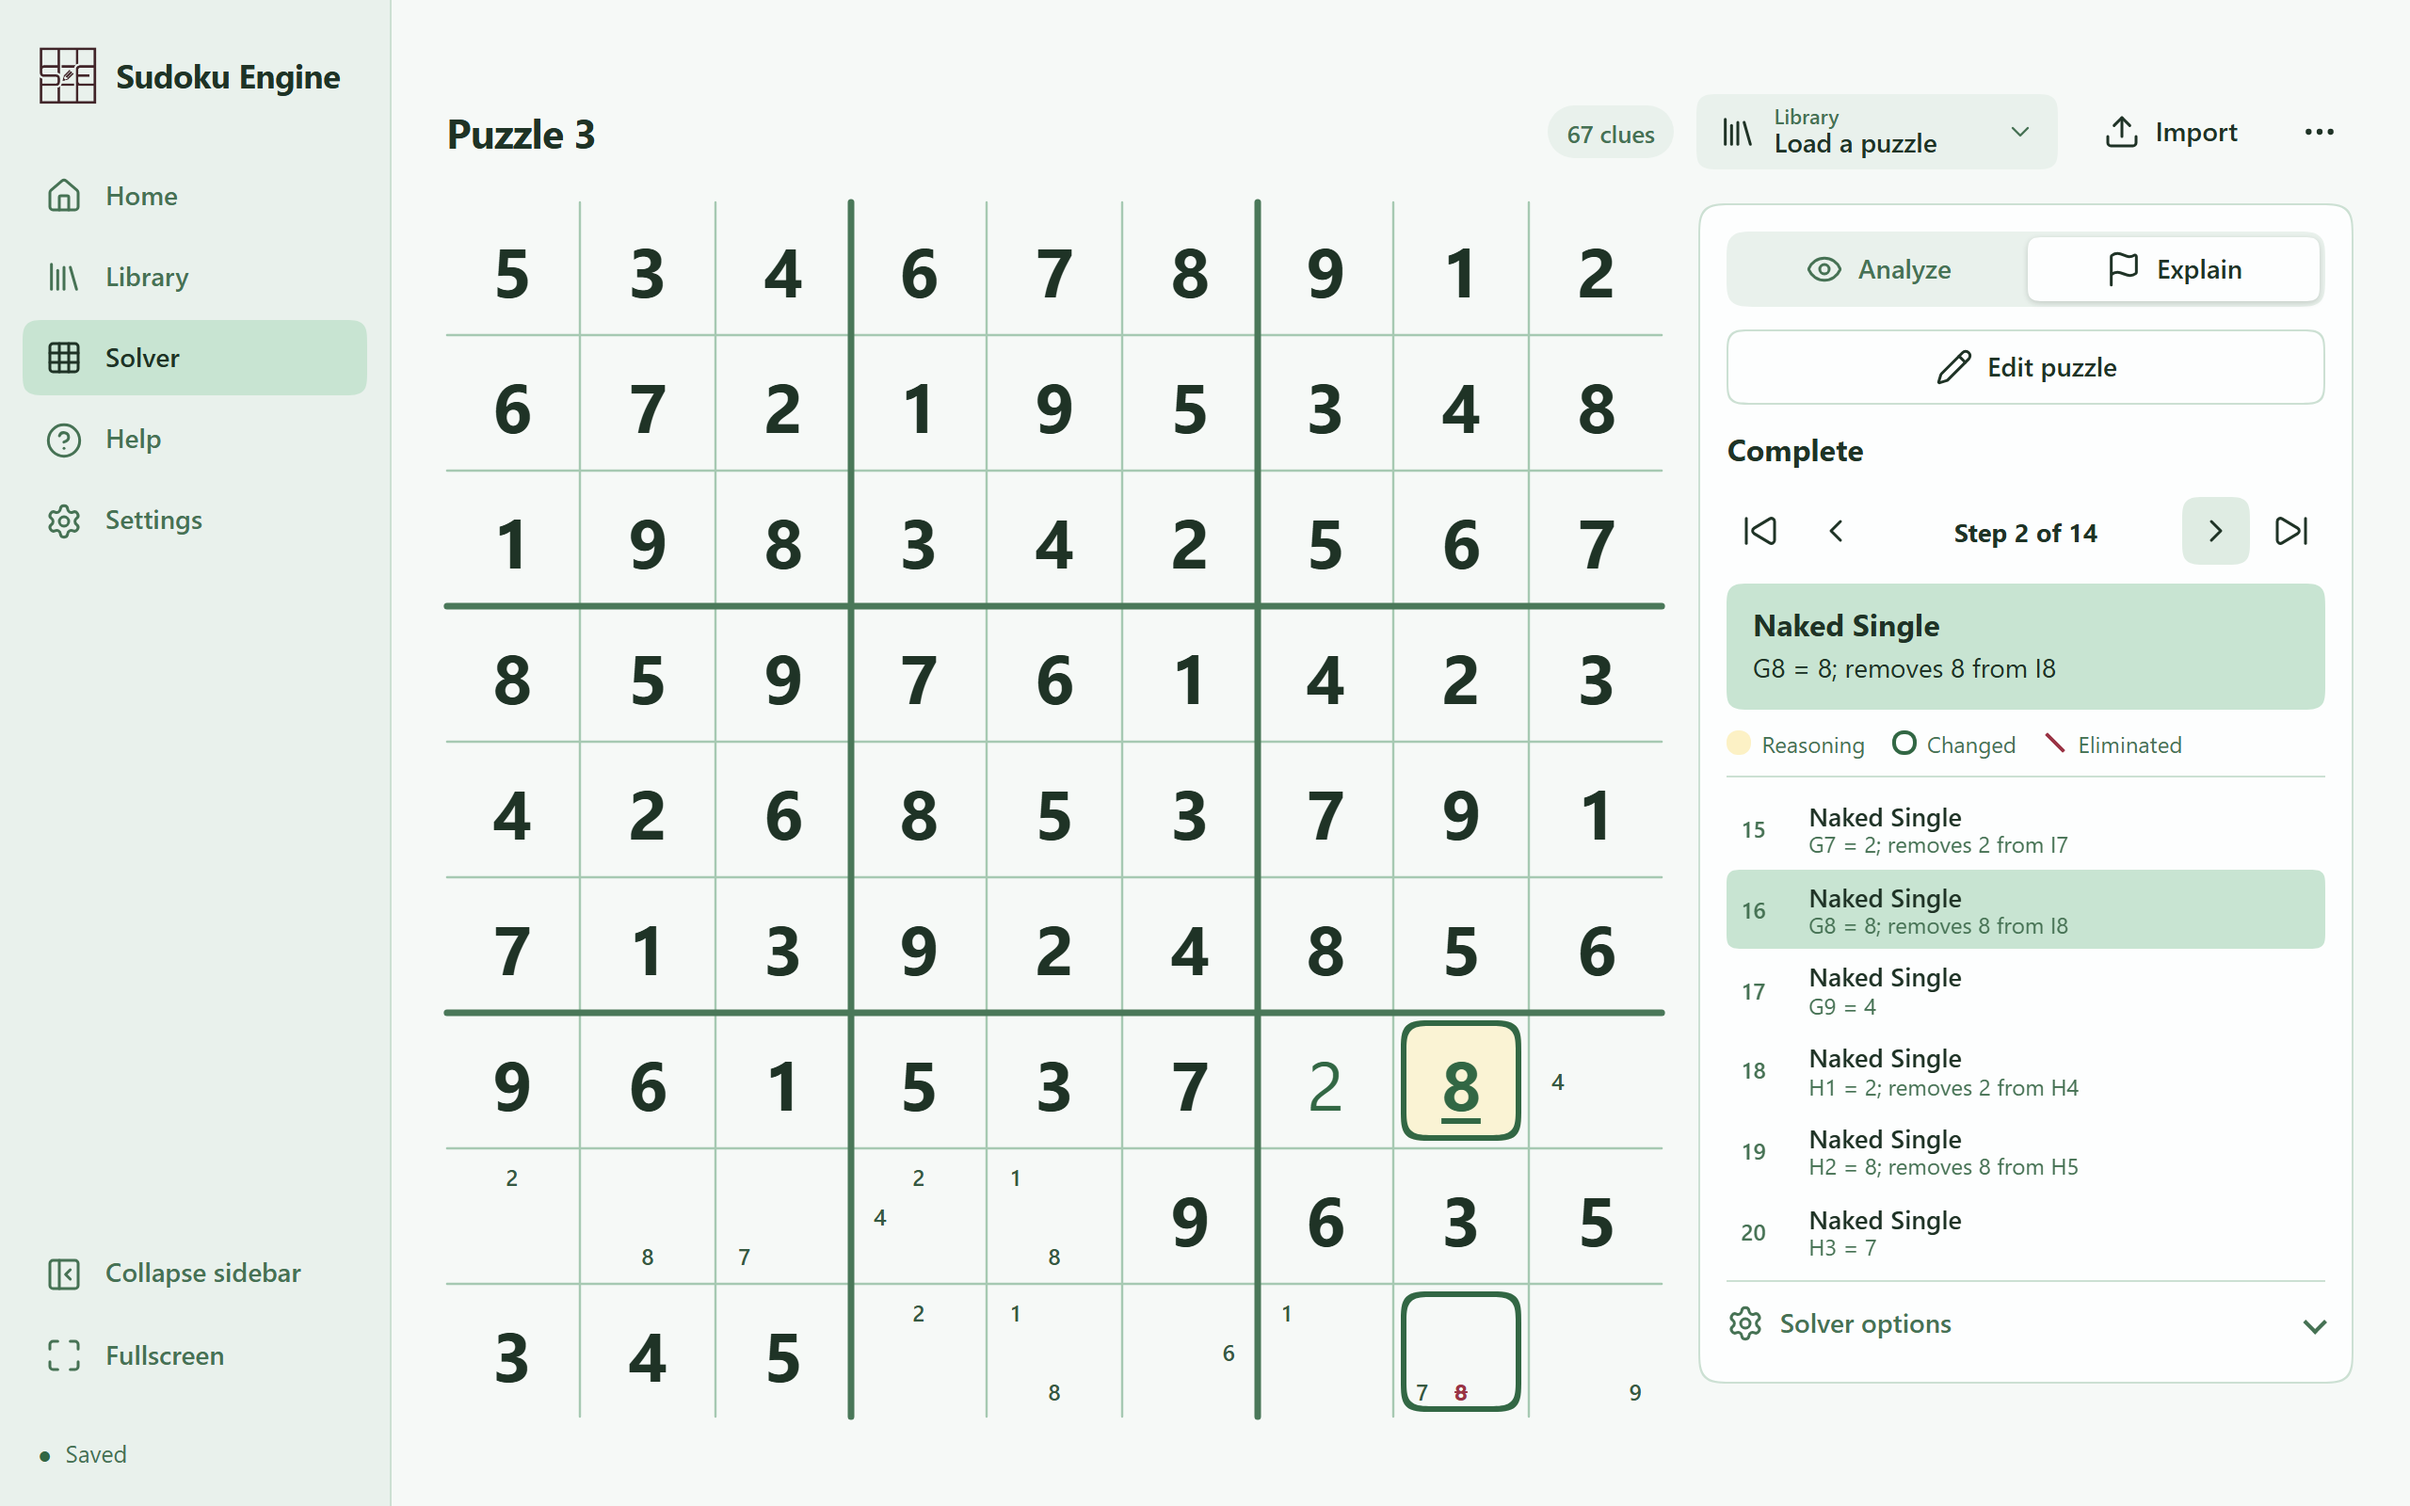
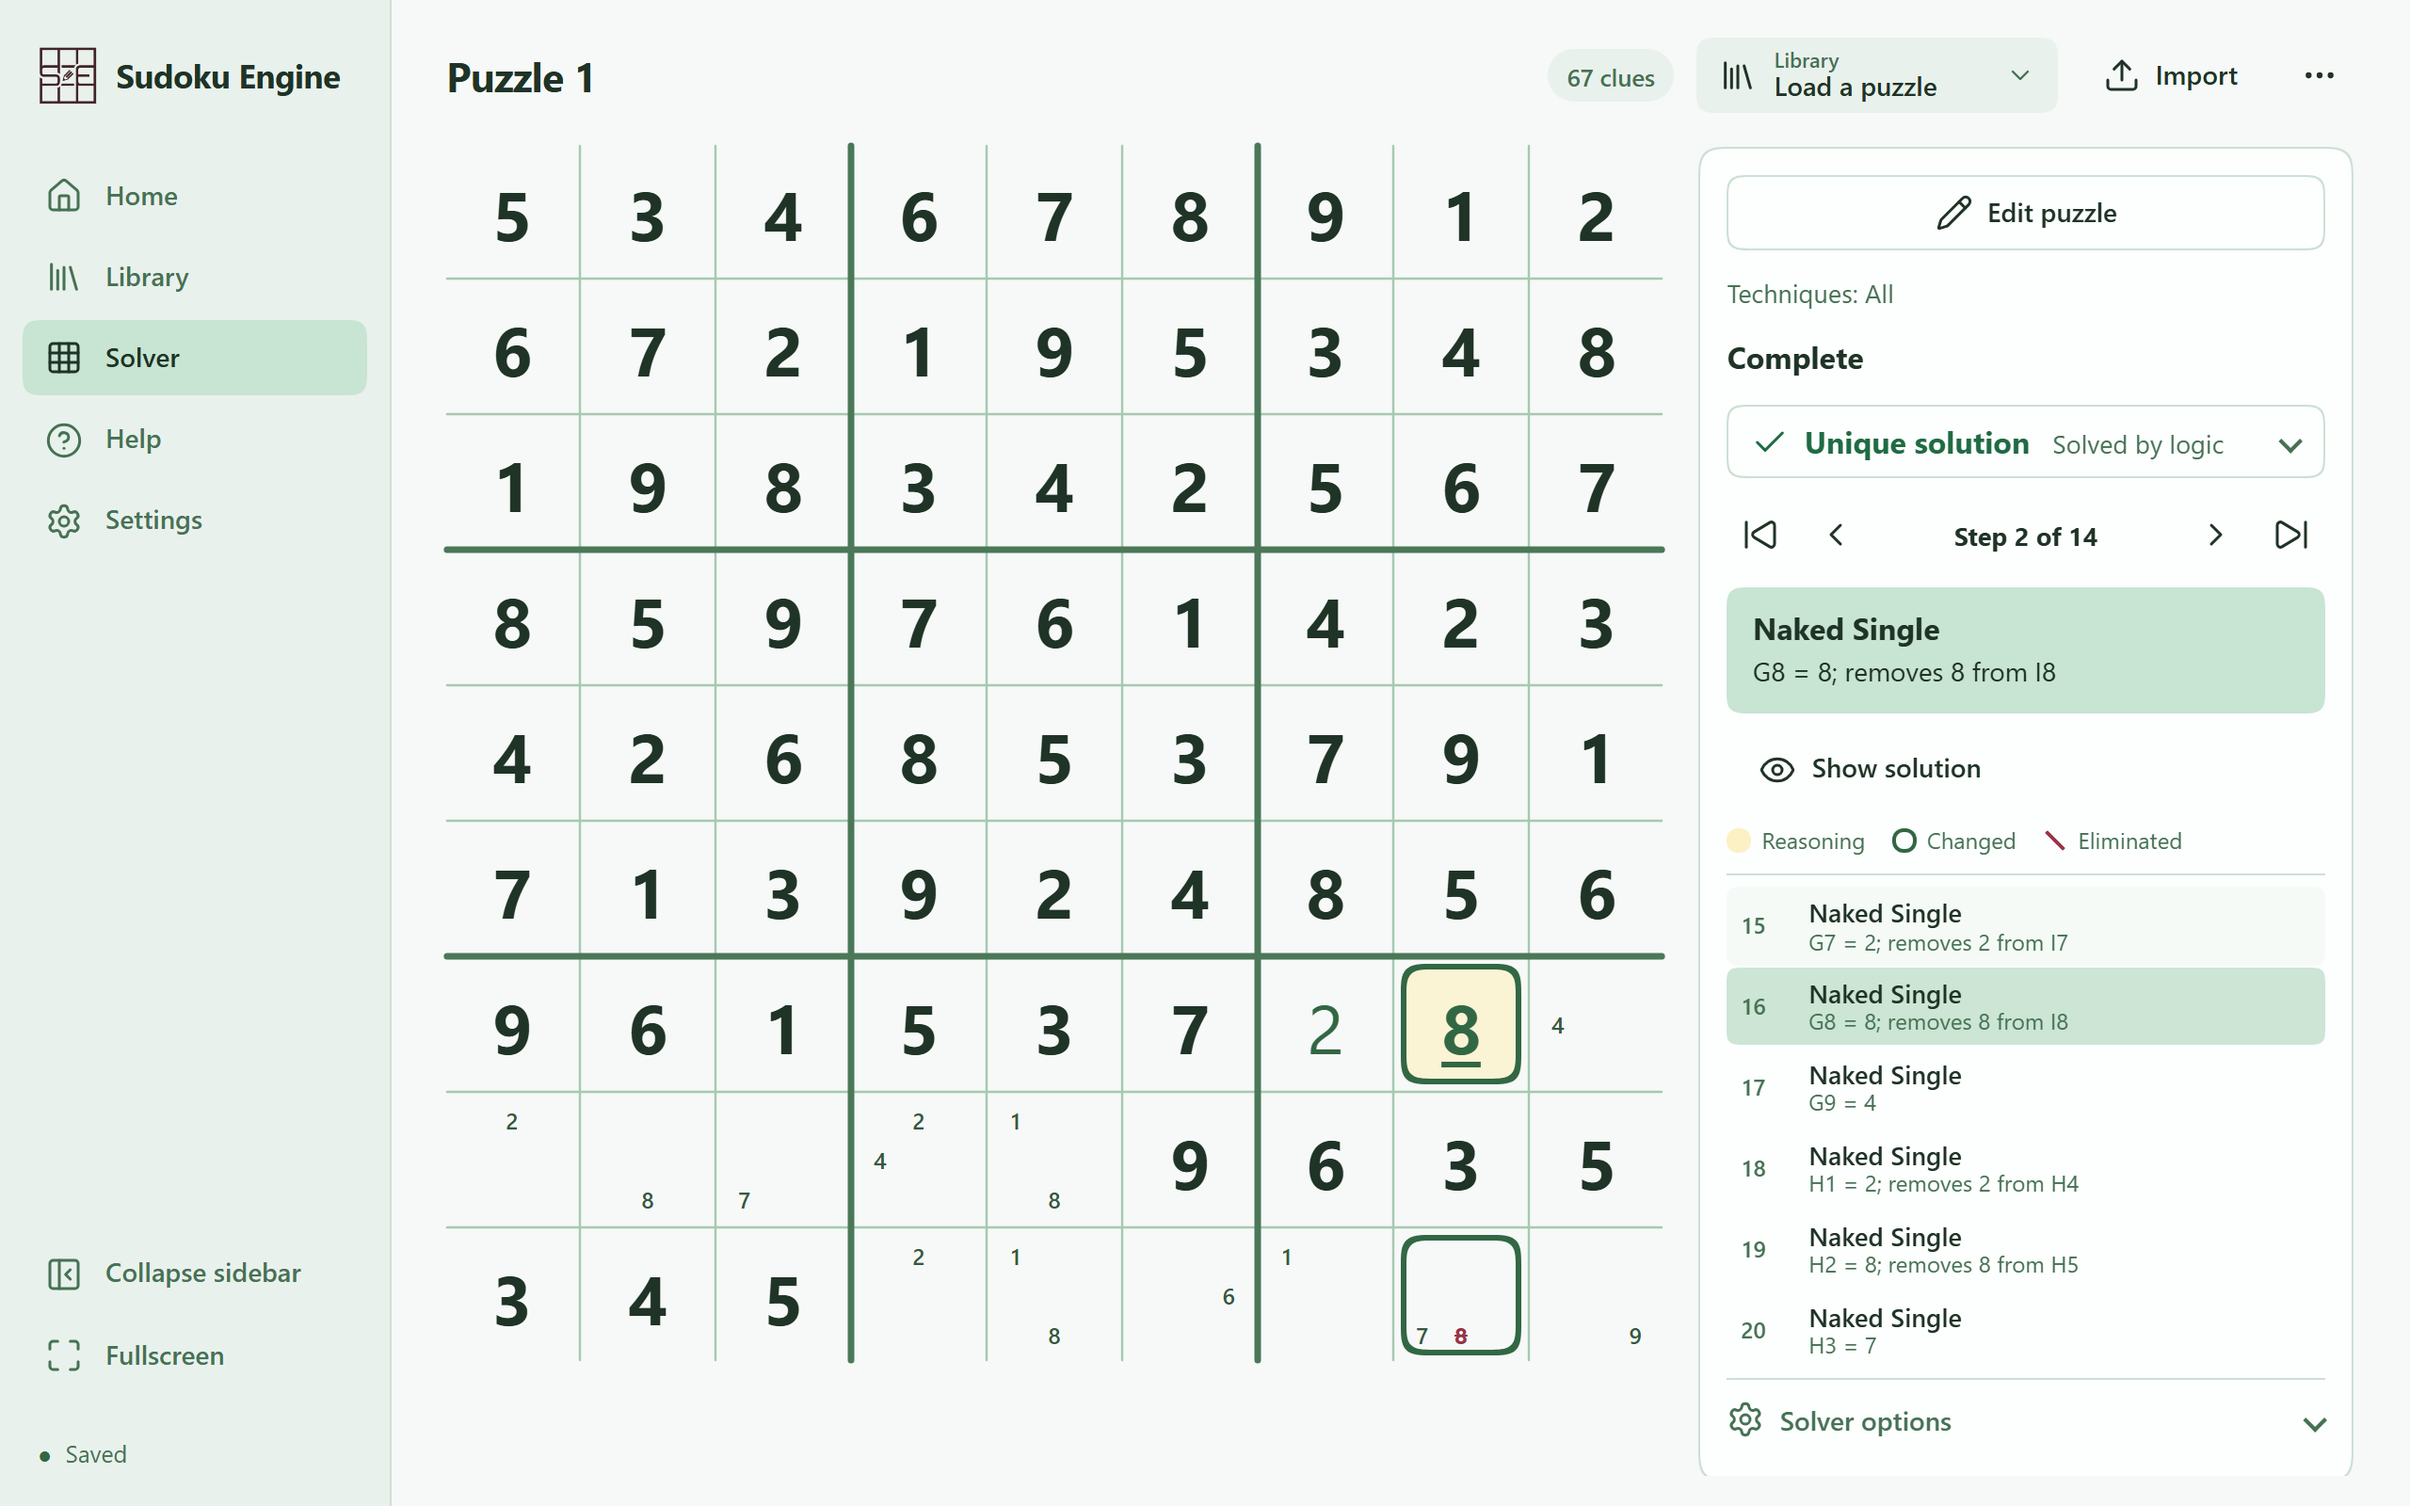
docs: recapture the Solve screenshot for the single view
Same framing as before (1280x800 at 2x, the 67-clue puzzle, basic
eliminations hidden, step 2 of 14), now without the Analyze/Explain switch
and with the summary header and the technique line.

diff --git a/README.md b/README.md
@@ -16,7 +16,7 @@ Everything runs in your browser. There is no account, no server and no tracking;
 
 | Play | Solve |
 | --- | --- |
-| ![Play screen: a partially solved board with corner and center notes, a running timer and the keypad](docs/media/play.png) | ![Solve screen: step 2 of 14, a Naked Single highlighted on the board with the eliminated candidate struck through](docs/media/explain.png) |
+| ![Play screen: a partially solved board with corner and center notes, a running timer and the keypad](docs/media/play.png) | ![Solve screen: step 2 of 14, a Naked Single highlighted on the board with the eliminated candidate struck through, under a one-line summary: unique solution, solved by logic](docs/media/explain.png) |
 
 ## Features
 
